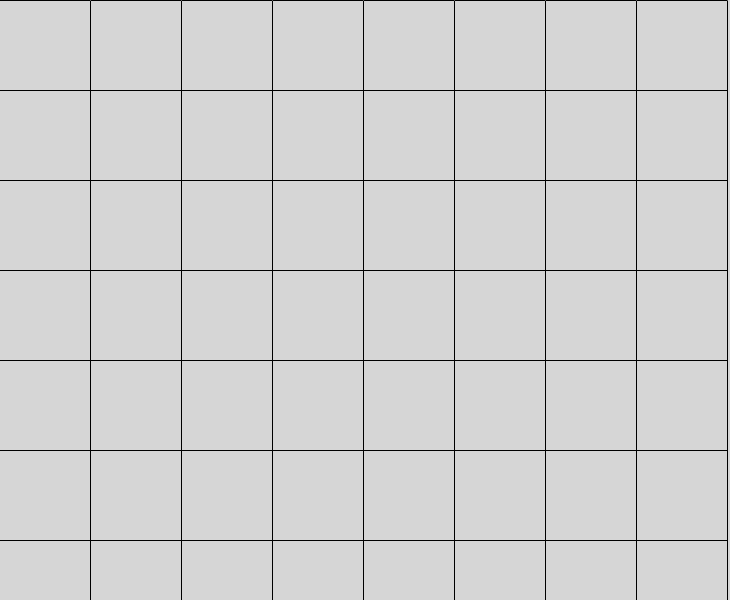
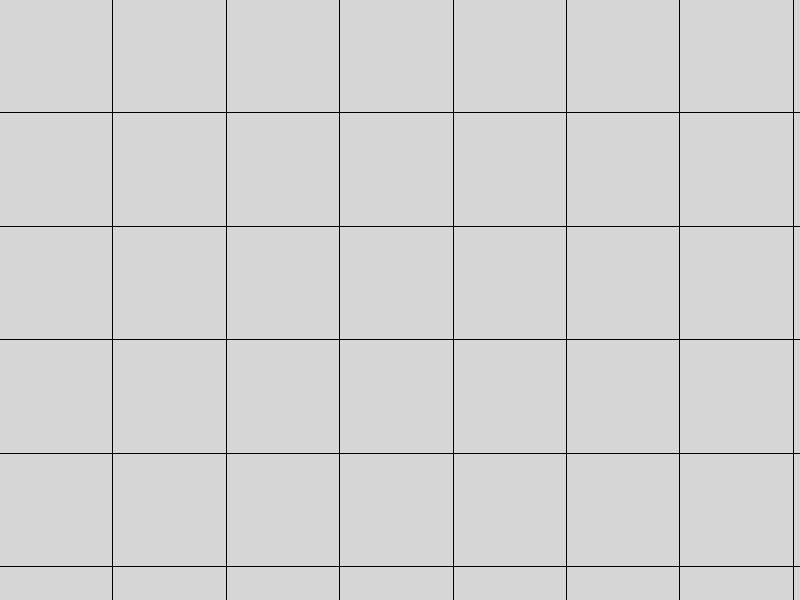
add bg

diff --git a/src/GameLayer.js b/src/GameLayer.js
@@ -3,6 +3,10 @@ var GameLayer = cc.LayerColor.extend({
         this._super( new cc.Color4B( 127, 127, 127, 255 ) );
         this.setPosition( new cc.Point( 0, 0 ) );
 
+        this.bg = new Background();
+        this.bg.setPosition(new cc.Point (screenWidth / 2, screenHeight / 2 ));
+        this.addChild(this.bg);
+
         this.player = new Player();
         this.player.setPosition( new cc.Point( screenWidth / 2, screenHeight / 2 ) );
         this.addChild( this.player );

diff --git a/cocos2d.js b/cocos2d.js
@@ -13,7 +13,8 @@
         //SingleEngineFile:'',
         appFiles:[
             'src/GameLayer.js',
-            'src/Player.js'     //add your own files in order here
+            'src/Player.js',
+            'src/Background.js'     //add your own files in order here
         ]
     };
 

diff --git a/src/Background.js b/src/Background.js
@@ -1,0 +1,8 @@
+var Background = cc.Sprite.extend({
+    ctor: function() {
+        this._super();
+        this.initWithFile( 'images/bg.png' );
+       
+    },
+
+});
